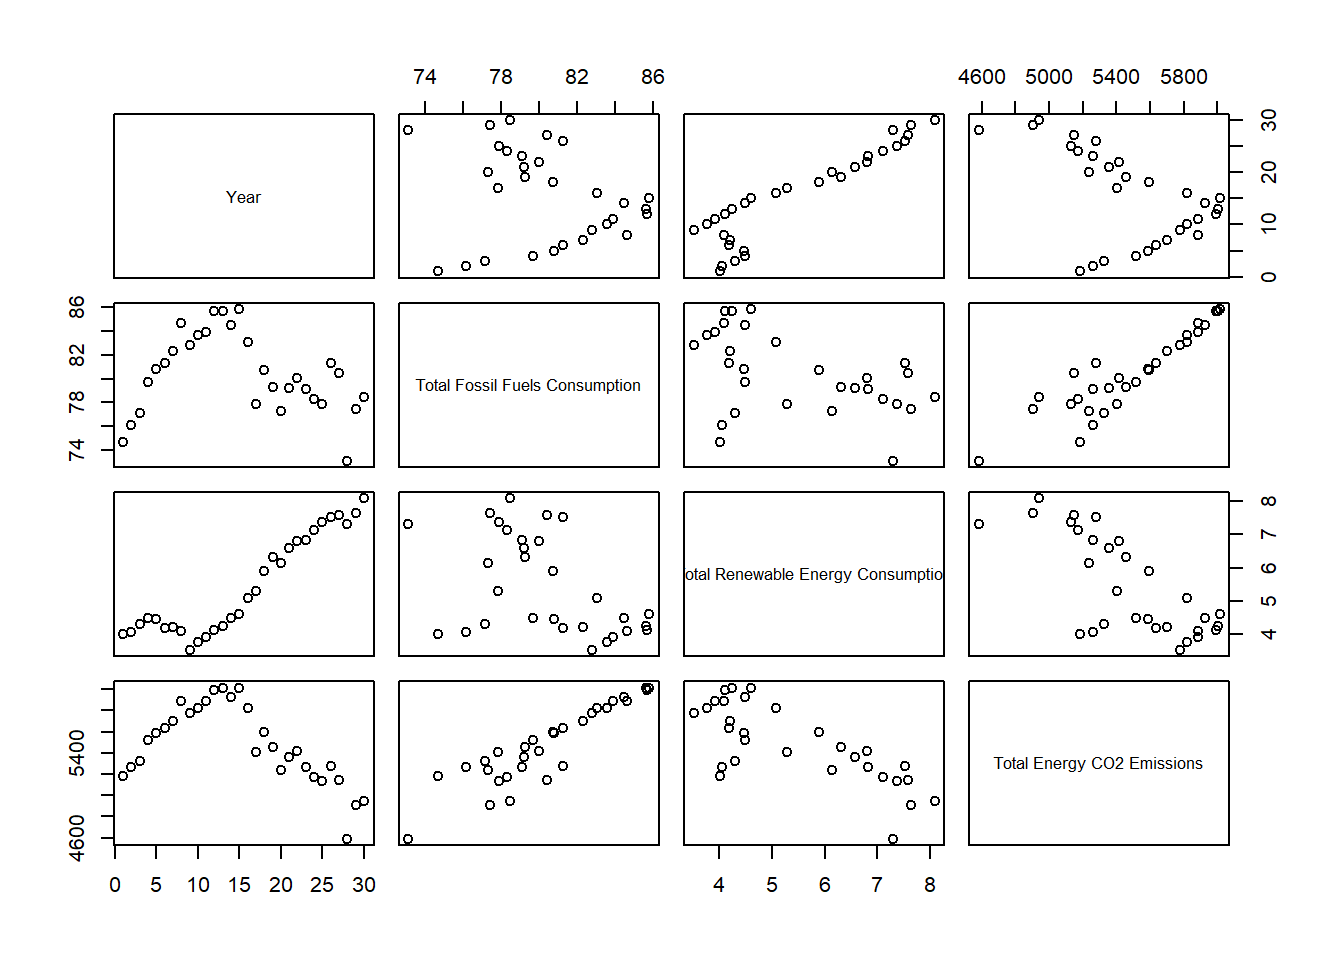
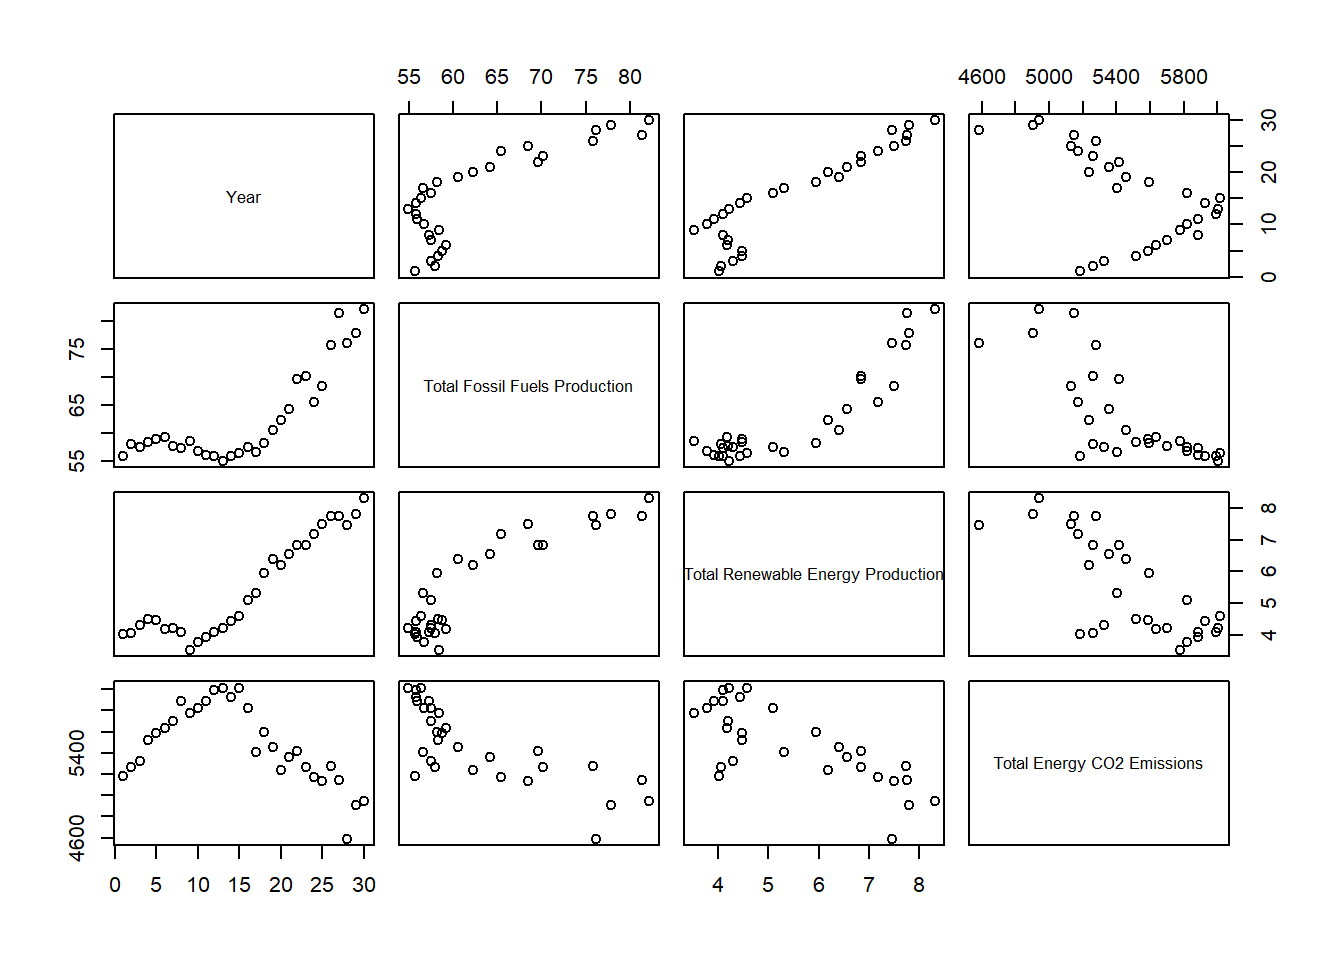
Render Book

diff --git a/docs/results.html b/docs/results.html
@@ -353,6 +353,24 @@ Attaching package: 'dplyr'</code></pre>
 </div>
 </div>
 <p>Now we can see that fossil fuel production does not show a decreasing trend as renewable energy production increase. However, the comsumption of both does seem to have a negative correlation.</p>
+<div class="cell">
+<details>
+<summary>Code</summary>
+<div class="sourceCode cell-code" id="cb20"><pre class="sourceCode r code-with-copy"><code class="sourceCode r"><span id="cb20-1"><a href="#cb20-1" aria-hidden="true" tabindex="-1"></a>consumption <span class="ot">&lt;-</span> yearlyenergy[, <span class="fu">c</span>(<span class="st">"Year"</span>, <span class="st">"Total Fossil Fuels Consumption"</span>, <span class="st">"Nuclear Electric Power Consumption"</span>, <span class="st">"Total Renewable Energy Consumption"</span>)]</span>
+<span id="cb20-2"><a href="#cb20-2" aria-hidden="true" tabindex="-1"></a>consumption <span class="ot">&lt;-</span> consumption <span class="sc">|&gt;</span> </span>
+<span id="cb20-3"><a href="#cb20-3" aria-hidden="true" tabindex="-1"></a>  <span class="fu">pivot_longer</span>(<span class="at">cols =</span> <span class="dv">2</span><span class="sc">:</span><span class="dv">4</span>, <span class="at">names_to =</span> <span class="st">"Type"</span>, <span class="at">values_to =</span> <span class="st">"Consumption"</span>)</span>
+<span id="cb20-4"><a href="#cb20-4" aria-hidden="true" tabindex="-1"></a></span>
+<span id="cb20-5"><a href="#cb20-5" aria-hidden="true" tabindex="-1"></a>consumption_scaled <span class="ot">&lt;-</span> yearlyenergy[, <span class="fu">c</span>(<span class="st">"Year"</span>, <span class="st">"Scaled Fossil Fuels Consumption"</span>, <span class="st">"Scaled Renewable Energy Consumption"</span>, <span class="st">"Scaled Nuclear Electric Power Consumption"</span>)]</span>
+<span id="cb20-6"><a href="#cb20-6" aria-hidden="true" tabindex="-1"></a><span class="fu">colnames</span>(consumption_scaled) <span class="ot">&lt;-</span> <span class="fu">c</span>(<span class="st">"Year"</span>, <span class="st">"Total Fossil Fuels Consumption"</span>, <span class="st">"Nuclear Electric Power Consumption"</span>, <span class="st">"Total Renewable Energy Consumption"</span>)</span>
+<span id="cb20-7"><a href="#cb20-7" aria-hidden="true" tabindex="-1"></a>yearlyconsumption <span class="ot">&lt;-</span> consumption_scaled <span class="sc">|&gt;</span> </span>
+<span id="cb20-8"><a href="#cb20-8" aria-hidden="true" tabindex="-1"></a>  <span class="fu">pivot_longer</span>(<span class="at">cols =</span> <span class="dv">2</span><span class="sc">:</span><span class="dv">4</span>, <span class="at">names_to =</span> <span class="st">"Type"</span>, <span class="at">values_to =</span> <span class="st">"Scaled Consumption"</span>) <span class="sc">|&gt;</span> </span>
+<span id="cb20-9"><a href="#cb20-9" aria-hidden="true" tabindex="-1"></a>  <span class="fu">right_join</span>(consumption, <span class="at">by =</span> <span class="fu">c</span>(<span class="st">"Year"</span>, <span class="st">"Type"</span>))</span>
+<span id="cb20-10"><a href="#cb20-10" aria-hidden="true" tabindex="-1"></a></span>
+<span id="cb20-11"><a href="#cb20-11" aria-hidden="true" tabindex="-1"></a>yearlyconsumption_sorted <span class="ot">&lt;-</span> yearlyconsumption <span class="sc">|&gt;</span> </span>
+<span id="cb20-12"><a href="#cb20-12" aria-hidden="true" tabindex="-1"></a>  <span class="fu">arrange</span>(Type <span class="sc">%in%</span> <span class="fu">c</span>(<span class="st">"Total Renewable Energy Consumption"</span>, <span class="st">"Nuclear Electric Power Consumption"</span>, <span class="st">"Total Fossil Fuels Consumption"</span>), Type)</span>
+<span id="cb20-13"><a href="#cb20-13" aria-hidden="true" tabindex="-1"></a><span class="fu">write.csv</span>(yearlyconsumption_sorted, <span class="st">"Yearly Consumption.csv"</span>, <span class="at">row.names=</span><span class="cn">FALSE</span>)</span></code><button title="Copy to Clipboard" class="code-copy-button"><i class="bi"></i></button></pre></div>
+</details>
+</div>
 </section>
 <section id="carbon-emissions-and-energy-mix" class="level2" data-number="3.2">
 <h2 data-number="3.2" class="anchored" data-anchor-id="carbon-emissions-and-energy-mix"><span class="header-section-number">3.2</span> Carbon Emissions and Energy Mix</h2>
@@ -363,39 +381,26 @@ Techniques: Implement alluvial diagrams, mosaic plots, and scatterplots to estab
 <div class="cell">
 <details>
 <summary>Code</summary>
-<div class="sourceCode cell-code" id="cb21"><pre class="sourceCode r code-with-copy"><code class="sourceCode r"><span id="cb21-1"><a href="#cb21-1" aria-hidden="true" tabindex="-1"></a>carbon <span class="ot">&lt;-</span> <span class="fu">read.xlsx</span>(<span class="st">"Table_11.1_Carbon_Dioxide_Emissions_From_Energy_Consumption_by_Source.xlsx"</span>, <span class="at">sep.names =</span> <span class="st">" "</span>)</span>
-<span id="cb21-2"><a href="#cb21-2" aria-hidden="true" tabindex="-1"></a>carbon<span class="sc">$</span>Month <span class="ot">&lt;-</span><span class="fu">as.Date</span>(carbon<span class="sc">$</span>Month, <span class="at">origin =</span> <span class="st">"1899-12-30"</span>)</span>
-<span id="cb21-3"><a href="#cb21-3" aria-hidden="true" tabindex="-1"></a>carbon <span class="ot">&lt;-</span> carbon <span class="sc">|&gt;</span> <span class="fu">filter</span>(Month <span class="sc">&gt;=</span> <span class="st">'1993-01-01'</span>) <span class="sc">|&gt;</span> </span>
-<span id="cb21-4"><a href="#cb21-4" aria-hidden="true" tabindex="-1"></a>  <span class="fu">filter</span>(Month <span class="sc">&lt;</span> <span class="st">'2023-01-01'</span>)</span></code><button title="Copy to Clipboard" class="code-copy-button"><i class="bi"></i></button></pre></div>
+<div class="sourceCode cell-code" id="cb22"><pre class="sourceCode r code-with-copy"><code class="sourceCode r"><span id="cb22-1"><a href="#cb22-1" aria-hidden="true" tabindex="-1"></a>carbon <span class="ot">&lt;-</span> <span class="fu">read.xlsx</span>(<span class="st">"Table_11.1_Carbon_Dioxide_Emissions_From_Energy_Consumption_by_Source.xlsx"</span>, <span class="at">sep.names =</span> <span class="st">" "</span>)</span>
+<span id="cb22-2"><a href="#cb22-2" aria-hidden="true" tabindex="-1"></a>carbon<span class="sc">$</span>Month <span class="ot">&lt;-</span><span class="fu">as.Date</span>(carbon<span class="sc">$</span>Month, <span class="at">origin =</span> <span class="st">"1899-12-30"</span>)</span>
+<span id="cb22-3"><a href="#cb22-3" aria-hidden="true" tabindex="-1"></a>carbon <span class="ot">&lt;-</span> carbon <span class="sc">|&gt;</span> <span class="fu">filter</span>(Month <span class="sc">&gt;=</span> <span class="st">'1993-01-01'</span>) <span class="sc">|&gt;</span> </span>
+<span id="cb22-4"><a href="#cb22-4" aria-hidden="true" tabindex="-1"></a>  <span class="fu">filter</span>(Month <span class="sc">&lt;</span> <span class="st">'2023-01-01'</span>)</span></code><button title="Copy to Clipboard" class="code-copy-button"><i class="bi"></i></button></pre></div>
 </details>
 </div>
 <div class="cell">
 <details>
 <summary>Code</summary>
-<div class="sourceCode cell-code" id="cb22"><pre class="sourceCode r code-with-copy"><code class="sourceCode r"><span id="cb22-1"><a href="#cb22-1" aria-hidden="true" tabindex="-1"></a>carbon<span class="sc">$</span>Year <span class="ot">&lt;-</span> <span class="fu">format</span>(carbon<span class="sc">$</span>Month,<span class="st">"%Y"</span>)</span>
-<span id="cb22-2"><a href="#cb22-2" aria-hidden="true" tabindex="-1"></a>yearlycarbon <span class="ot">&lt;-</span> carbon <span class="sc">|&gt;</span> </span>
-<span id="cb22-3"><a href="#cb22-3" aria-hidden="true" tabindex="-1"></a>  <span class="fu">group_by</span>(Year) <span class="sc">|&gt;</span> </span>
-<span id="cb22-4"><a href="#cb22-4" aria-hidden="true" tabindex="-1"></a>  <span class="fu">summarise</span>(<span class="fu">across</span>(<span class="fu">where</span>(is.numeric), sum))</span></code><button title="Copy to Clipboard" class="code-copy-button"><i class="bi"></i></button></pre></div>
+<div class="sourceCode cell-code" id="cb23"><pre class="sourceCode r code-with-copy"><code class="sourceCode r"><span id="cb23-1"><a href="#cb23-1" aria-hidden="true" tabindex="-1"></a>carbon<span class="sc">$</span>Year <span class="ot">&lt;-</span> <span class="fu">format</span>(carbon<span class="sc">$</span>Month,<span class="st">"%Y"</span>)</span>
+<span id="cb23-2"><a href="#cb23-2" aria-hidden="true" tabindex="-1"></a>yearlycarbon <span class="ot">&lt;-</span> carbon <span class="sc">|&gt;</span> </span>
+<span id="cb23-3"><a href="#cb23-3" aria-hidden="true" tabindex="-1"></a>  <span class="fu">group_by</span>(Year) <span class="sc">|&gt;</span> </span>
+<span id="cb23-4"><a href="#cb23-4" aria-hidden="true" tabindex="-1"></a>  <span class="fu">summarise</span>(<span class="fu">across</span>(<span class="fu">where</span>(is.numeric), sum))</span></code><button title="Copy to Clipboard" class="code-copy-button"><i class="bi"></i></button></pre></div>
 </details>
 </div>
-<div class="cell">
-<details>
-<summary>Code</summary>
-<div class="sourceCode cell-code" id="cb23"><pre class="sourceCode r code-with-copy"><code class="sourceCode r"><span id="cb23-1"><a href="#cb23-1" aria-hidden="true" tabindex="-1"></a>energycarbon <span class="ot">&lt;-</span> yearlyenergy <span class="sc">|&gt;</span> </span>
-<span id="cb23-2"><a href="#cb23-2" aria-hidden="true" tabindex="-1"></a>  <span class="fu">select</span>(Year, <span class="st">`</span><span class="at">Total Fossil Fuels Production</span><span class="st">`</span>, <span class="st">`</span><span class="at">Total Renewable Energy Production</span><span class="st">`</span>) <span class="sc">|&gt;</span> </span>
-<span id="cb23-3"><a href="#cb23-3" aria-hidden="true" tabindex="-1"></a>  <span class="fu">left_join</span>(<span class="fu">select</span>(yearlycarbon, Year, <span class="st">`</span><span class="at">Total Energy CO2 Emissions</span><span class="st">`</span>), <span class="at">by =</span> <span class="st">'Year'</span>)</span>
-<span id="cb23-4"><a href="#cb23-4" aria-hidden="true" tabindex="-1"></a><span class="fu">plot</span>(energycarbon)</span></code><button title="Copy to Clipboard" class="code-copy-button"><i class="bi"></i></button></pre></div>
-</details>
-<div class="cell-output-display">
-<p><img src="results_files/figure-html/unnamed-chunk-8-1.png" class="img-fluid" width="672"></p>
-</div>
-</div>
-<p>Production for both fossil fuel and renewable energy seem to display a negative correlation with <span class="math inline">\(CO_2\)</span> emissions, but from the plot with year, it looks like this is just due to increasing trend of production and decreasing trend in <span class="math inline">\(CO_2\)</span> emission.</p>
 <div class="cell">
 <details>
 <summary>Code</summary>
 <div class="sourceCode cell-code" id="cb24"><pre class="sourceCode r code-with-copy"><code class="sourceCode r"><span id="cb24-1"><a href="#cb24-1" aria-hidden="true" tabindex="-1"></a>energycarbon <span class="ot">&lt;-</span> yearlyenergy <span class="sc">|&gt;</span> </span>
-<span id="cb24-2"><a href="#cb24-2" aria-hidden="true" tabindex="-1"></a>  <span class="fu">select</span>(Year, <span class="st">`</span><span class="at">Total Fossil Fuels Consumption</span><span class="st">`</span>, <span class="st">`</span><span class="at">Total Renewable Energy Consumption</span><span class="st">`</span>) <span class="sc">|&gt;</span> </span>
+<span id="cb24-2"><a href="#cb24-2" aria-hidden="true" tabindex="-1"></a>  <span class="fu">select</span>(Year, <span class="st">`</span><span class="at">Total Fossil Fuels Production</span><span class="st">`</span>, <span class="st">`</span><span class="at">Total Renewable Energy Production</span><span class="st">`</span>) <span class="sc">|&gt;</span> </span>
 <span id="cb24-3"><a href="#cb24-3" aria-hidden="true" tabindex="-1"></a>  <span class="fu">left_join</span>(<span class="fu">select</span>(yearlycarbon, Year, <span class="st">`</span><span class="at">Total Energy CO2 Emissions</span><span class="st">`</span>), <span class="at">by =</span> <span class="st">'Year'</span>)</span>
 <span id="cb24-4"><a href="#cb24-4" aria-hidden="true" tabindex="-1"></a><span class="fu">plot</span>(energycarbon)</span></code><button title="Copy to Clipboard" class="code-copy-button"><i class="bi"></i></button></pre></div>
 </details>
@@ -403,7 +408,20 @@ Techniques: Implement alluvial diagrams, mosaic plots, and scatterplots to estab
 <p><img src="results_files/figure-html/unnamed-chunk-9-1.png" class="img-fluid" width="672"></p>
 </div>
 </div>
-<p>On the other hand, fossil fuel consumption and <span class="math inline">\(CO_2\)</span> emission shows the exact same trend over time, and they have very high correlation. This shows that lower fossil fuel comsumption is accompanied by lower <span class="math inline">\(CO_2\)</span> emission.</p>
+<p>Production for both fossil fuel and renewable energy seem to display a negative correlation with <span class="math inline">\(CO_2\)</span> emissions, but from the plot with year, it looks like this is just due to increasing trend of production and decreasing trend in <span class="math inline">\(CO_2\)</span> emission.</p>
+<div class="cell">
+<details>
+<summary>Code</summary>
+<div class="sourceCode cell-code" id="cb25"><pre class="sourceCode r code-with-copy"><code class="sourceCode r"><span id="cb25-1"><a href="#cb25-1" aria-hidden="true" tabindex="-1"></a>energycarbon <span class="ot">&lt;-</span> yearlyenergy <span class="sc">|&gt;</span> </span>
+<span id="cb25-2"><a href="#cb25-2" aria-hidden="true" tabindex="-1"></a>  <span class="fu">select</span>(Year, <span class="st">`</span><span class="at">Total Fossil Fuels Consumption</span><span class="st">`</span>, <span class="st">`</span><span class="at">Total Renewable Energy Consumption</span><span class="st">`</span>) <span class="sc">|&gt;</span> </span>
+<span id="cb25-3"><a href="#cb25-3" aria-hidden="true" tabindex="-1"></a>  <span class="fu">left_join</span>(<span class="fu">select</span>(yearlycarbon, Year, <span class="st">`</span><span class="at">Total Energy CO2 Emissions</span><span class="st">`</span>), <span class="at">by =</span> <span class="st">'Year'</span>)</span>
+<span id="cb25-4"><a href="#cb25-4" aria-hidden="true" tabindex="-1"></a><span class="fu">plot</span>(energycarbon)</span></code><button title="Copy to Clipboard" class="code-copy-button"><i class="bi"></i></button></pre></div>
+</details>
+<div class="cell-output-display">
+<p><img src="results_files/figure-html/unnamed-chunk-10-1.png" class="img-fluid" width="672"></p>
+</div>
+</div>
+<p>On the other hand, fossil fuel consumption and <span class="math inline">\(CO_2\)</span> emission shows the exact same trend over time, and they have very high correlation. This shows that lower fossil fuel consumption is accompanied by lower <span class="math inline">\(CO_2\)</span> emission.</p>
 
 
 </section>

diff --git a/docs/scripts/myscript.js b/docs/scripts/myscript.js
@@ -1,1 +1,184 @@
-// add your JavaScript/D3 to this file
+// Width and height
+const w = 1000;
+const h = 300;
+const margin = {top: 25, right: 150, bottom: 50, left: 150};
+const innerHeight = h - margin.top - margin.bottom;
+const innerWidth = w - margin.left - margin.right;
+
+// create SVG element
+const svg = d3.select("div#plot")
+  .append("svg")
+    .attr("width", w)
+    .attr("height", h)
+
+// create background rectangle
+svg.append("rect")
+.attr("width", w)
+.attr("height", h)
+.attr("fill", "#e7f5fe");
+
+// create caption
+d3.select("div#plot")
+.append("div")
+  .style("padding", "10px")
+.append("a")
+.text("Green: Renewable Energy, Pink: Fossil Fuels, Blue: Nuclear Electric Power");
+
+// create plot group
+svg.append("g")
+  .attr("id", "plot")
+  .attr("transform", `translate (${margin.left}, ${margin.top})`);
+
+const rowConverter = function (d) {
+  return {
+    year: +d.Year,
+    cons: +d['Consumption'],
+    s_cons: +d['Scaled Consumption']
+    }
+};
+
+d3.csv("https://raw.githubusercontent.com/Amy0Shen/energy/main/Yearly%20Consumption.csv", rowConverter).then(function(data) {
+
+// Set up x-axis scale, which is in years
+xScale = d3.scaleBand()
+  .domain(data.map(d => d.year))
+  .range([0, innerWidth])
+  .paddingInner(.1);
+
+// Set up y-aixs scale, which is in Quadrillion Btu
+yScale = d3.scaleLinear()
+  .domain([0, 110])
+  .range([innerHeight, 0]);
+
+xAxis = d3.axisBottom()
+  .scale(xScale);
+
+yAxis = d3.axisLeft()
+  .scale(yScale);
+
+// Create Bars for Nuclear Electric Power
+svg.select("g#plot")
+  .selectAll("rect")
+  .data(data.slice(0, 30))
+  .enter()
+  .append("rect")
+  .attr("x", d => xScale(d.year))
+  .attr("y", d => yScale(d.cons))
+  .attr("width", xScale.bandwidth())
+  .attr("height", d => innerHeight - yScale(d.cons))
+  .attr("fill", "lightblue")
+  .on("mouseover", function(event, d) {
+        const xcoord = +d3.select(event.currentTarget).attr("x") + 5
+        const ycoord = +d3.select(event.currentTarget).attr("y") - 5
+        svg.select("g#plot")
+          .append("text")
+          .attr("id", "tooltip")
+          .attr("x", xcoord)
+          .attr("y", ycoord)
+          .text(`Amount: ${d.cons}, Proportion: ${d.s_cons}`)
+          .attr("fill", "blue")
+          .attr("text-anchor", "middle");
+     })
+     .on("mouseout", function() {
+         d3.select("#tooltip")
+           .remove();
+     }
+     );
+
+// Create Bars for Fossil Fuels
+svg.select("g#plot")
+  .selectAll("rect")
+  .data(data.slice(0, 60))
+  .enter()
+  .append("rect")
+  .attr("x", d => xScale(d.year))
+  .attr("y", (d, i) => yScale(data[i -30].cons + d.cons))
+  .attr("width", xScale.bandwidth())
+  .attr("height", d => innerHeight - yScale(d.cons))
+  .attr("fill", "pink")
+  .on("mouseover", function(event, d) {
+        const xcoord = +d3.select(event.currentTarget).attr("x") + 5
+        const ycoord = +d3.select(event.currentTarget).attr("y") - 5
+        svg.select("g#plot")
+          .append("text")
+          .attr("id", "tooltip")
+          .attr("x", xcoord)
+          .attr("y", ycoord)
+          .text(`Amount: ${d.cons}, Proportion: ${d.s_cons}`)
+          .attr("fill", "blue")
+          .attr("text-anchor", "middle");
+     })
+     .on("mouseout", function() {
+         d3.select("#tooltip")
+           .remove();
+     }
+     );
+
+// Create Bars for Renewable Energy
+svg.select("g#plot")
+  .selectAll("rect")
+  .data(data)
+  .enter()
+  .append("rect")
+  .attr("x", d => xScale(d.year))
+  .attr("y", (d, i) => yScale(data[i -60].cons + data[i -30].cons + d.cons))
+  .attr("width", xScale.bandwidth())
+  .attr("height", d => innerHeight - yScale(d.cons))
+  .attr("fill", "lightgreen")
+  .on("mouseover", function(event, d) {
+        const xcoord = +d3.select(event.currentTarget).attr("x") + 5
+        const ycoord = +d3.select(event.currentTarget).attr("y") - 5
+        svg.select("g#plot")
+          .append("text")
+          .attr("id", "tooltip")
+          .attr("x", xcoord)
+          .attr("y", ycoord)
+          .text(`Amount: ${d.cons}, Proportion: ${d.s_cons}`)
+          .attr("fill", "blue")
+          .attr("text-anchor", "middle");
+     })
+     .on("mouseout", function() {
+         d3.select("#tooltip")
+           .remove();
+     }
+     );
+
+// create x-axis
+svg.select("g#plot")
+  .append("g")
+  .attr("transform", `translate (0, ${innerHeight})`)
+  .call(xAxis);
+
+// create x-axis label
+svg.select("g#plot")
+  .append("text")
+    .attr("id", "xlab")
+    .attr("x", innerWidth/2)
+    .attr("y", innerHeight + .75 * margin.bottom)
+    .attr("text-anchor", "middle")
+    .text("Year");
+
+// create y-axis
+svg.select("g#plot")
+  .append("g")
+  .call(yAxis)
+
+// create y-axis label
+svg.select("g#plot")
+  .append("text")
+    .attr("id", "ylab")
+    .attr("x", 20)
+    .attr("y", -40)
+    .attr("text-anchor", "end")
+    .attr("transform", "rotate(-90)")
+    .text("Energy Consumption (Quadrillion Btu)");
+}) // end d3.json
+
+.catch(function(error){
+  d3.select("svg")
+    .append("text")
+    .style("font-size", "24px")
+    .attr("x", "100")
+    .attr("y", "100")
+    .text("Error loading data");
+});

diff --git a/docs/index.html b/docs/index.html
@@ -8,7 +8,7 @@
 
 <meta name="author" content="Chenxin Shen (cs4349)">
 <meta name="author" content="Yixuan Sun (ys3745)">
-<meta name="dcterms.date" content="2023-12-14">
+<meta name="dcterms.date" content="2023-12-15">
 
 <title>Energy</title>
 <style>
@@ -171,7 +171,7 @@ ul.task-list li input[type="checkbox"] {
     <div>
     <div class="quarto-title-meta-heading">Published</div>
     <div class="quarto-title-meta-contents">
-      <p class="date">December 14, 2023</p>
+      <p class="date">December 15, 2023</p>
     </div>
   </div>
   

diff --git a/docs/d3graph.html b/docs/d3graph.html
@@ -165,6 +165,9 @@ ul.task-list li input[type="checkbox"] {
     font-family: sans-serif;
   }
 </style>
+<p>
+Hover over bars for exact amount of consumption and proportion of total consumption.
+</p>
 <div id="plot">
 
 </div>
